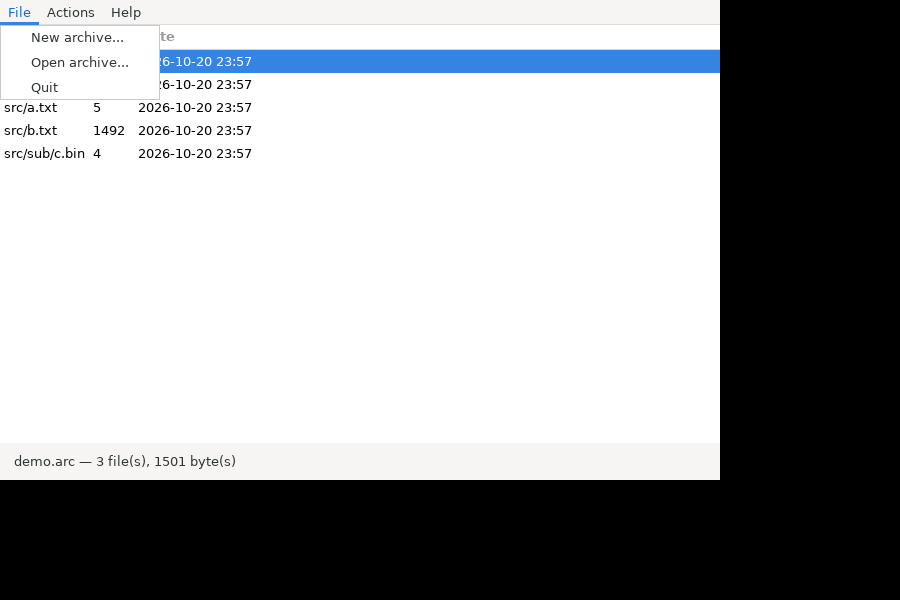
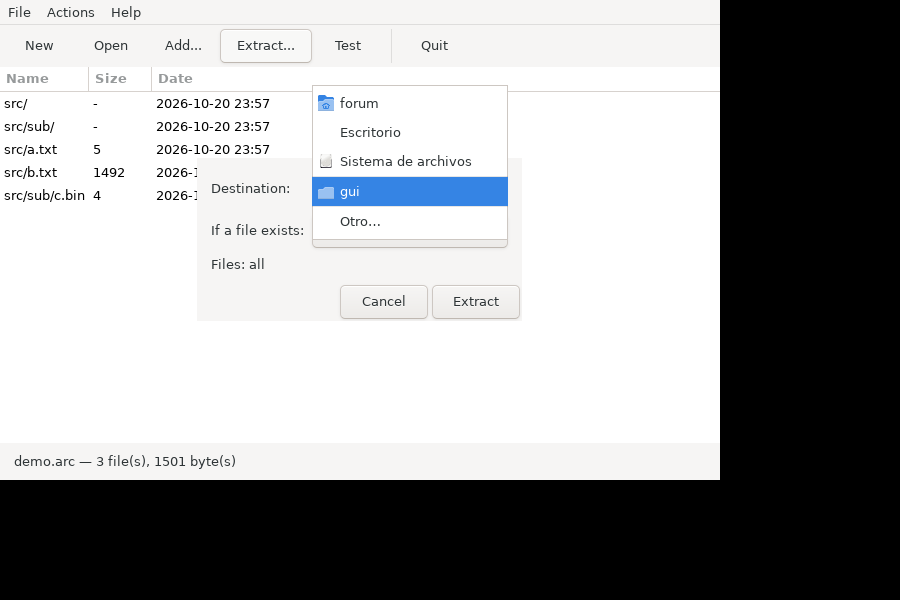
M5: toolbar, sortable multi-select listing, extraction dialog and Add
- Toolbar with New/Open/Add/Extract/Test/Quit; the listing has sortable columns
  and multiple selection, and a row activation opens the extraction flow.
- Extraction dialog: destination folder, overwrite policy (overwrite / keep
  existing) and 'selected files only' (the selection becomes include masks).
- Add... updates the open archive from a folder (UpdateMode::Update) and
  refreshes the listing afterwards.
- Screenshot refreshed with the extraction dialog.

diff --git a/src/gui/main.cpp b/src/gui/main.cpp
@@ -13,6 +13,7 @@
 #include "fa/arc.h"
 #include "fa/ops.h"
 #include "fa/arc_writer.h"
+#include "fa/update.h"
 #include "fa/crypto.h"
 
 namespace {
@@ -69,6 +70,7 @@ private:
     void on_test();
     void on_extract();
     void on_new_archive();
+    void on_add_folder();
     void refresh_status();
 
     // Runs an archive operation in a worker thread with a progress dialog.
@@ -151,6 +153,24 @@ MainWindow::MainWindow()
     help_item->set_submenu(*help_menu);
     menu_.append(*help_item);
 
+    // Toolbar.
+    auto* toolbar = Gtk::manage(new Gtk::Toolbar());
+    toolbar->set_toolbar_style(Gtk::ToolbarStyle::TOOLBAR_TEXT);
+    {
+        auto add_button = [&](const char* label, void (MainWindow::*handler)()) {
+            auto* item = Gtk::manage(new Gtk::ToolButton(label));
+            item->signal_clicked().connect(sigc::mem_fun(*this, handler));
+            toolbar->append(*item);
+        };
+        add_button("New", &MainWindow::on_new_archive);
+        add_button("Open", &MainWindow::on_open);
+        add_button("Add...", &MainWindow::on_add_folder);
+        add_button("Extract...", &MainWindow::on_extract);
+        add_button("Test", &MainWindow::on_test);
+        toolbar->append(*Gtk::manage(new Gtk::SeparatorToolItem()));
+        add_button("Quit", &MainWindow::on_quit);
+    }
+
     // Listing.
     model_ = Gtk::ListStore::create(columns_);
     view_.set_model(model_);
@@ -159,11 +179,22 @@ MainWindow::MainWindow()
     view_.append_column("Date", columns_.date);
     view_.set_headers_visible(true);
 
+    // Sortable columns and multiple selection.
+    view_.get_column(0)->set_sort_column(columns_.name);
+    view_.get_column(1)->set_sort_column(columns_.size);
+    view_.get_column(2)->set_sort_column(columns_.date);
+    view_.get_selection()->set_mode(Gtk::SELECTION_MULTIPLE);
+    // Double click extracts the selection (or the whole archive).
+    view_.signal_row_activated().connect([this](const Gtk::TreeModel::Path&, Gtk::TreeViewColumn*) {
+        on_extract();
+    });
+
     scroll_.add(view_);
     scroll_.set_policy(Gtk::POLICY_AUTOMATIC, Gtk::POLICY_AUTOMATIC);
     scroll_.set_vexpand(true);
 
     box_.pack_start(menu_, Gtk::PACK_SHRINK);
+    box_.pack_start(*toolbar, Gtk::PACK_SHRINK);
     box_.pack_start(scroll_, Gtk::PACK_EXPAND_WIDGET);
     box_.pack_end(status_, Gtk::PACK_SHRINK);
     add(box_);
@@ -358,20 +389,93 @@ void MainWindow::on_extract()
         dialog.run();
         return;
     }
-    Gtk::FileChooserDialog dialog(*this, "Extract to folder", Gtk::FILE_CHOOSER_ACTION_SELECT_FOLDER);
+
+    // Selected entries (if any) become include masks.
+    std::vector<std::string> masks;
+    for (const auto& path : view_.get_selection()->get_selected_rows()) {
+        auto row = *model_->get_iter(path);
+        const std::string name = row[columns_.name];
+        if (!name.empty() && name.back() != '/') masks.push_back(name);
+    }
+
+    Gtk::Dialog dialog("Extract", *this, true);
+    auto* grid = Gtk::manage(new Gtk::Grid());
+    grid->set_row_spacing(8);
+    grid->set_column_spacing(8);
+    grid->set_margin_top(12);
+    grid->set_margin_bottom(12);
+    grid->set_margin_start(12);
+    grid->set_margin_end(12);
+
+    auto* folder_label = Gtk::manage(new Gtk::Label("Destination:"));
+    folder_label->set_halign(Gtk::ALIGN_START);
+    auto* folder = Gtk::manage(new Gtk::FileChooserButton("Choose a folder",
+                                                          Gtk::FILE_CHOOSER_ACTION_SELECT_FOLDER));
+    folder->set_current_folder(Glib::get_current_dir());
+
+    auto* policy_label = Gtk::manage(new Gtk::Label("If a file exists:"));
+    policy_label->set_halign(Gtk::ALIGN_START);
+    auto* policy = Gtk::manage(new Gtk::ComboBoxText());
+    policy->append("overwrite");
+    policy->append("keep existing");
+    policy->set_active(0);
+
+    auto* selected_label = Gtk::manage(new Gtk::Label(
+        masks.empty() ? "Files: all" : "Files: " + std::to_string(masks.size()) + " selected"));
+    selected_label->set_halign(Gtk::ALIGN_START);
+
+    grid->attach(*folder_label, 0, 0, 1, 1);
+    grid->attach(*folder, 1, 0, 1, 1);
+    grid->attach(*policy_label, 0, 1, 1, 1);
+    grid->attach(*policy, 1, 1, 1, 1);
+    grid->attach(*selected_label, 0, 2, 2, 1);
+    dialog.get_content_area()->add(*grid);
     dialog.add_button("_Cancel", Gtk::RESPONSE_CANCEL);
-    dialog.add_button("_Select", Gtk::RESPONSE_OK);
+    dialog.add_button("_Extract", Gtk::RESPONSE_OK);
+    dialog.show_all();
     if (dialog.run() != Gtk::RESPONSE_OK) return;
-    const std::string destination = dialog.get_filename();
+
+    const std::string destination = folder->get_filename();
+    const bool overwrite = policy->get_active_row_number() == 0;
 
     run_operation("Extract archive",
-                  [this, destination](const fa::ProgressFn& progress, std::string& error) {
+                  [this, destination, masks, overwrite](const fa::ProgressFn& progress,
+                                                        std::string& error) {
                       bool cancelled = false;
                       fa::ExtractOptions options;
                       options.output_dir = destination;
-                      options.overwrite = true;
-                      return fa::extract_archive(archive_path_, options, progress, cancelled, error);
+                      options.masks = masks;
+                      options.overwrite = overwrite;
+                      return fa::extract_archive(archive_path_, options, progress, cancelled,
+                                                 error);
                   });
+}
+
+void MainWindow::on_add_folder()
+{
+    if (archive_path_.empty()) {
+        Gtk::MessageDialog dialog(*this, "Open an archive first", false, Gtk::MESSAGE_INFO);
+        dialog.run();
+        return;
+    }
+
+    Gtk::FileChooserDialog folder(*this, "Folder to add or update", Gtk::FILE_CHOOSER_ACTION_SELECT_FOLDER);
+    folder.add_button("_Cancel", Gtk::RESPONSE_CANCEL);
+    folder.add_button("_Add", Gtk::RESPONSE_OK);
+    if (folder.run() != Gtk::RESPONSE_OK) return;
+    const std::string input = folder.get_filename();
+
+    run_operation("Update archive", [this, input](const fa::ProgressFn& progress,
+                                                 std::string& error) {
+        fa::AddOptions add;
+        add.method = "lzma";
+        add.progress = progress;
+        if (!fa::update_archive(archive_path_, {input}, fa::UpdateMode::Update, add, error)) {
+            return false;
+        }
+        open(archive_path_);  // refresh the listing
+        return true;
+    });
 }
 
 void MainWindow::open(const std::string& path)

diff --git a/docs/PLAN.md b/docs/PLAN.md
@@ -21,7 +21,7 @@ Base decisions (ADR [0001](adr/0001-language-and-toolkit.md)):
 | **M2** | Full engine: `a/u/f/d`, solid blocks and `-s`, filters, AES encryption, `-rr`, `arc.ini`, Lua hooks, complete CLI | Order, update and write matrices against `arc.exe`; update fuzzing with no divergence | 🚧 codecs, presets, `-s` solid blocks, `u/f/d` with block reuse and data and header encryption (`-p`/`-hp`) and the recovery record (`-rr` write and `r` repair) done; masks/overwrite/-dm/-ap/-ad/-ae/-ep/-ma/exit codes done, `arc.ini` methods + Lua event hooks done, update layout matches the original; the GUI is what remains |
 | **M3** | All five targets | Real testing in the `win7`, `win10` and `arm64` VMs | |
 | **M4** | Updated libraries and codecs | Modern LZMA SDK, LZ4 1.10 (CVE-2014-4611), LibTomCrypt 1.18.2, CRC/AES without x86 asm | |
-| **M5** | GTK3 GUI | Feature parity with the 0.67 GUI on Linux and Windows | 🚧 window, listing, create archive (folder + preset + password), Test and Extract-to-folder, all with progress and cancel; dialog automation and the full file manager pending |
+| **M5** | GTK3 GUI | Feature parity with the 0.67 GUI on Linux and Windows | 🚧 window, toolbar (New/Open/Add/Extract/Test/Quit), sortable multi-select listing, create, update, test and extract (destination, overwrite policy, selected files only), all with progress and cancel; 1:1 file manager and dialog automation pending |
 | **M6** | SFX, `unarc.dll`, Explorer extension, packaging (installer with Inno Setup 7.1.0, see [INSTALLER.md](INSTALLER.md)) | Clean install and smoke test in all three VMs | |
 
 ## Working rules

diff --git a/docs/COMPAT.md b/docs/COMPAT.md
@@ -12,7 +12,7 @@
 | Explorer | COM context menu (x86 and x64) and file associations, Windows only |
 | Containers | reading `.7z`/`.zip`/`.rar` (writing `.zip` if agreed) |
 | Platforms | Linux x86_64/i686/aarch64; Windows x86_64/i686 with Windows 7 SP1 as the minimum |
-| GUI | GTK3 via gtkmm 3.24, optional build (`FA_BUILD_GUI`): opens archives, lists them, tests and extracts to a folder with progress and cancel, and creates archives (folder + preset + optional password) |
+| GUI | GTK3 via gtkmm 3.24, optional build (`FA_BUILD_GUI`): opens archives, lists them, tests and extracts (destination, overwrite policy, selected files only) and creates or updates archives (folder + preset + optional password), all with progress and cancel |
 
 ## How it is verified: the oracle
 
